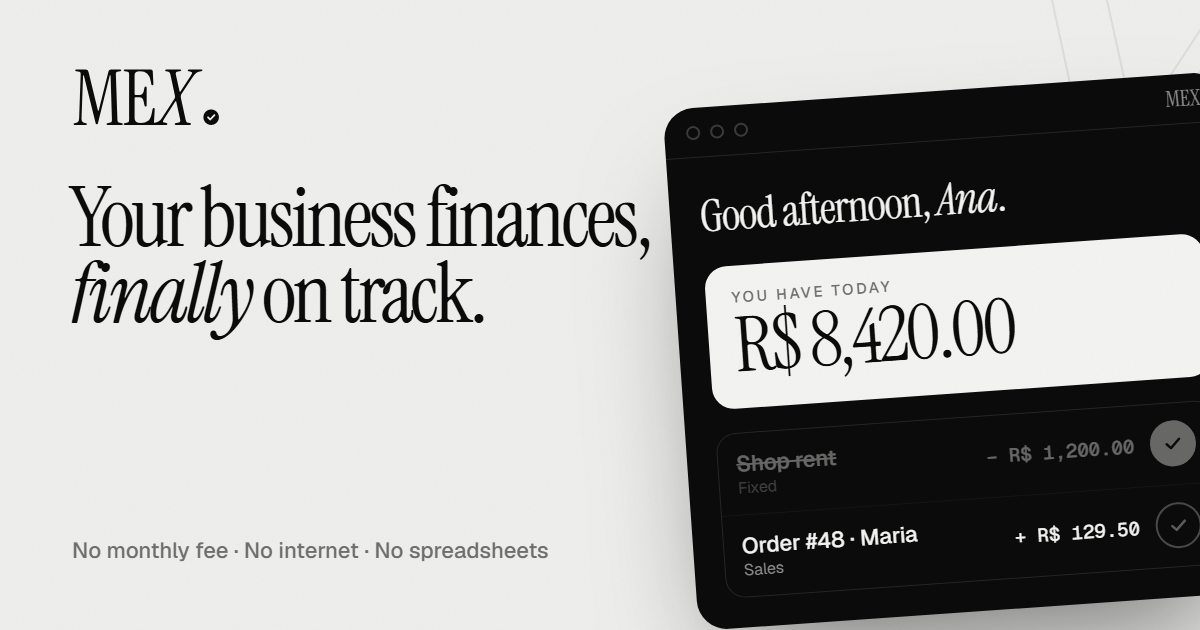
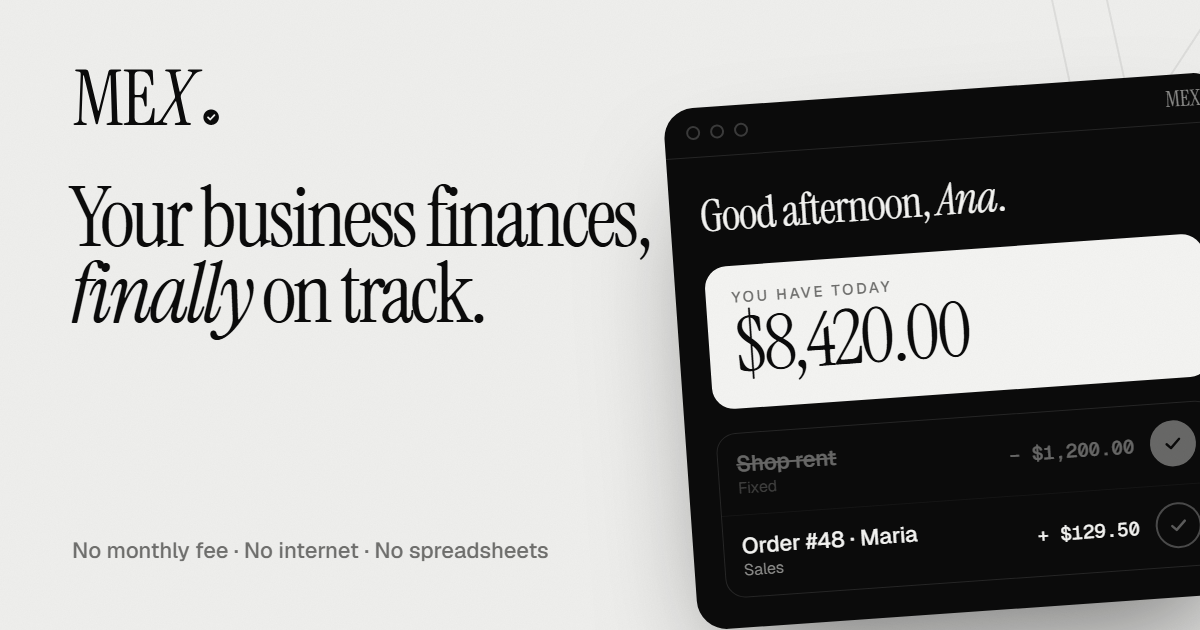
Show prices and amounts in US dollars
The English site now uses USD everywhere: price ($39, was $59),
demo, calculator, examples and the share image. The FAQ still says
that the app itself shows amounts in Brazilian reais.

Changed region(s): [[0.6167, 0.4825, 0.8633, 0.6032], [0.8633, 0.8143, 0.8942, 0.8746], [0.8325, 0.6937, 0.8633, 0.754]]

diff --git a/index.html b/index.html
@@ -64,7 +64,7 @@
         <a class="btn ghost lg" href="#demo">Try it right here ↓</a>
       </div>
       <ul class="hero-facts reveal">
-        <li><b>R$ 0</b><span>monthly fee</span></li>
+        <li><b>$0</b><span>monthly fee</span></li>
         <li><b>100%</b><span>offline</span></li>
         <li><b>84</b><span>achievements</span></li>
       </ul>
@@ -83,13 +83,13 @@
           </aside>
           <div class="w-main">
             <div class="w-greet">Good afternoon, <em>Ana</em>.</div>
-            <div class="w-bal"><small>You have today</small><b id="dBal">R$ 8,420.00</b></div>
+            <div class="w-bal"><small>You have today</small><b id="dBal">$8,420.00</b></div>
             <div class="w-head"><span>Due today</span><span id="dLeft">4 bills</span></div>
             <div class="w-list" id="dList">
-              <div class="w-row" data-v="-120000" data-t="pagar"><span class="ti out">↗</span><div><b>Shop rent</b><small>Fixed · Rent</small></div><em>− R$ 1,200.00</em><button aria-label="Pay rent"><svg viewBox="0 0 24 24"><path d="m5 12.5 4.5 4.5L19 7.5"/></svg></button></div>
-              <div class="w-row" data-v="12950" data-t="receber"><span class="ti in">↙</span><div><b>Order #48 · Maria</b><small>Cakes · Sales</small></div><em>+ R$ 129.50</em><button aria-label="Receive order"><svg viewBox="0 0 24 24"><path d="m5 12.5 4.5 4.5L19 7.5"/></svg></button></div>
-              <div class="w-row" data-v="-38000" data-t="pagar"><span class="ti out">↗</span><div><b>Silva Packaging</b><small>Suppliers</small></div><em>− R$ 380.00</em><button aria-label="Pay supplier"><svg viewBox="0 0 24 24"><path d="m5 12.5 4.5 4.5L19 7.5"/></svg></button></div>
-              <div class="w-row" data-v="45000" data-t="receber"><span class="ti in">↙</span><div><b>Decor · Lucas's party</b><small>Services</small></div><em>+ R$ 450.00</em><button aria-label="Receive service"><svg viewBox="0 0 24 24"><path d="m5 12.5 4.5 4.5L19 7.5"/></svg></button></div>
+              <div class="w-row" data-v="-120000" data-t="pagar"><span class="ti out">↗</span><div><b>Shop rent</b><small>Fixed · Rent</small></div><em>− $1,200.00</em><button aria-label="Pay rent"><svg viewBox="0 0 24 24"><path d="m5 12.5 4.5 4.5L19 7.5"/></svg></button></div>
+              <div class="w-row" data-v="12950" data-t="receber"><span class="ti in">↙</span><div><b>Order #48 · Maria</b><small>Cakes · Sales</small></div><em>+ $129.50</em><button aria-label="Receive order"><svg viewBox="0 0 24 24"><path d="m5 12.5 4.5 4.5L19 7.5"/></svg></button></div>
+              <div class="w-row" data-v="-38000" data-t="pagar"><span class="ti out">↗</span><div><b>Silva Packaging</b><small>Suppliers</small></div><em>− $380.00</em><button aria-label="Pay supplier"><svg viewBox="0 0 24 24"><path d="m5 12.5 4.5 4.5L19 7.5"/></svg></button></div>
+              <div class="w-row" data-v="45000" data-t="receber"><span class="ti in">↙</span><div><b>Decor · Lucas's party</b><small>Services</small></div><em>+ $450.00</em><button aria-label="Receive service"><svg viewBox="0 0 24 24"><path d="m5 12.5 4.5 4.5L19 7.5"/></svg></button></div>
             </div>
             <button class="w-reset" id="dReset" hidden>↺ again</button>
           </div>
@@ -113,7 +113,7 @@
     <div class="pain-grid">
       <div class="pain-card reveal"><span class="pn">01</span><p class="strike">“I think I already paid that bill…”</p><p>MEX shows what's due today and what's already late. Paid it? One tap and you're done.</p></div>
       <div class="pain-card reveal"><span class="pn">02</span><p class="strike">“Who owes me again?”</p><p>Everything you're owed, by whom and when — and the reminder is ready to send on WhatsApp.</p></div>
-      <div class="pain-card reveal"><span class="pn">03</span><p class="strike">“At the end of the month, did I make or lose money?”</p><p>Balance, monthly profit and where every real went, in words anyone understands.</p></div>
+      <div class="pain-card reveal"><span class="pn">03</span><p class="strike">“At the end of the month, did I make or lose money?”</p><p>Balance, monthly profit and where every dollar went, in words anyone understands.</p></div>
     </div>
   </div>
 </section>
@@ -124,17 +124,17 @@
     <div class="calc-copy reveal">
       <p class="eyebrow">Do the math</p>
       <h2 class="h2">How much does paying late<br><em>cost you</em> a year?</h2>
-      <p class="muted">In Brazil, a late bill usually comes with a 2% fine plus 1% interest per month. Sounds small. Move the sliders and see.</p>
+      <p class="muted">A late bill usually comes with a late fee plus interest — say 2% plus 1% a month. Sounds small. Move the sliders and see.</p>
       <div class="sl"><label>Bills paid late per month <b id="cN">5</b></label><input type="range" id="iN" min="1" max="20" value="5"></div>
-      <div class="sl"><label>Average amount per bill <b id="cV">R$ 800</b></label><input type="range" id="iV" min="50" max="5000" step="50" value="800"></div>
+      <div class="sl"><label>Average amount per bill <b id="cV">$800</b></label><input type="range" id="iV" min="50" max="5000" step="50" value="800"></div>
       <div class="sl"><label>Average days late <b id="cD">15 days</b></label><input type="range" id="iD" min="1" max="30" value="15"></div>
     </div>
     <div class="calc-out reveal">
       <small>You throw away, every year</small>
-      <div class="big" id="cOut">R$ 0</div>
+      <div class="big" id="cOut">$0</div>
       <p id="cMsg">—</p>
       <a class="btn inv lg" href="#price" data-buy>Stop losing money</a>
-      <span class="fine">Rough estimate: 2% fine + 1% monthly interest, prorated by day.</span>
+      <span class="fine">Rough estimate: 2% late fee + 1% monthly interest, prorated by day.</span>
     </div>
   </div>
 </section>
@@ -150,23 +150,23 @@
       <article class="b-card b-wide reveal">
         <div class="b-txt"><h3>Bills to pay <em>and to receive</em></h3><p>Add them in seconds. Installments? Repeats every month? MEX creates them all. On the day, it reminds you — and paying is one tap on the ✓.</p></div>
         <div class="b-vis rows">
-          <div class="r late"><span>Late</span><b>Electricity bill</b><em>R$ 214.30</em></div>
-          <div class="r"><span>Today</span><b>Rent</b><em>R$ 1,200.00</em></div>
-          <div class="r in"><span>Tomorrow</span><b>Order #49 · João</b><em>+ R$ 545.00</em></div>
-          <div class="r paid"><span>Paid ✓</span><b>Internet</b><em>R$ 99.90</em></div>
+          <div class="r late"><span>Late</span><b>Electricity bill</b><em>$214.30</em></div>
+          <div class="r"><span>Today</span><b>Rent</b><em>$1,200.00</em></div>
+          <div class="r in"><span>Tomorrow</span><b>Order #49 · João</b><em>+ $545.00</em></div>
+          <div class="r paid"><span>Paid ✓</span><b>Internet</b><em>$99.90</em></div>
         </div>
       </article>
       <article class="b-card reveal">
         <div class="b-txt"><h3>Receipts, <em>ready</em></h3><p>With the amount spelled out in words. Print it or save it as a PDF.</p></div>
-        <div class="b-vis receipt"><div class="rc-h"><i>Receipt</i><b>R$ 129.50</b></div><p>Received from <b>Maria Souza</b> the amount of <b>R$ 129.50</b> <em>(one hundred twenty-nine reais and fifty centavos)</em>…</p><div class="rc-sign"></div></div>
+        <div class="b-vis receipt"><div class="rc-h"><i>Receipt</i><b>$129.50</b></div><p>Received from <b>Maria Souza</b> the amount of <b>$129.50</b> <em>(one hundred twenty-nine dollars and fifty cents)</em>…</p><div class="rc-sign"></div></div>
       </article>
       <article class="b-card reveal">
         <div class="b-txt"><h3>Remind on <em>WhatsApp</em></h3><p>A polite message with the amount, the due date and your Pix key. Just hit send.</p></div>
-        <div class="b-vis chat"><div class="bubble">Hi, Maria! Just a reminder about the payment due on <b>11/22</b>: <b>R$ 129.50</b>. Pix key: <b>ana@pix.com</b> 😊</div><div class="typing"><i></i><i></i><i></i></div></div>
+        <div class="b-vis chat"><div class="bubble">Hi, Maria! Just a reminder about the payment due on <b>11/22</b>: <b>$129.50</b>. Pix key: <b>ana@pix.com</b> 😊</div><div class="typing"><i></i><i></i><i></i></div></div>
       </article>
       <article class="b-card reveal">
         <div class="b-txt"><h3>Products with <em>profit on screen</em></h3><p>Enter the price and what it costs you. MEX shows how much you make on every sale.</p></div>
-        <div class="b-vis prod"><div class="p-top"><span class="pbox"></span><b>Cake in a jar</b></div><div class="p-price">R$ 12<sup>.00</sup><small>/ unit</small></div><div class="p-m">✦ You make <b>R$ 7.50</b> (63%)</div></div>
+        <div class="b-vis prod"><div class="p-top"><span class="pbox"></span><b>Cake in a jar</b></div><div class="p-price">$12<sup>.00</sup><small>/ unit</small></div><div class="p-m">✦ You make <b>$7.50</b> (63%)</div></div>
       </article>
       <article class="b-card reveal">
         <div class="b-txt"><h3>Cash flow <em>and reports</em></h3><p>Monthly profit, where the money went and what's coming next.</p></div>
@@ -200,9 +200,9 @@
       </ul>
     </div>
     <div class="kb reveal" aria-hidden="true">
-      <div class="kc"><h5>New <span>2</span></h5><div class="oc" style="--d:0s"><small>#51 · deliver today</small><b>João Lima</b><span>3× Birthday cake</span><em>R$ 545.00</em></div><div class="oc ghost"><small>#52 · Sat, Nov 23</small><b>Central Bakery</b><span>200 Brigadeiros</span><em>R$ 180.00</em></div></div>
-      <div class="kc"><h5>In progress <span>1</span></h5><div class="oc mover"><small>#50 · tomorrow</small><b>Maria Souza</b><span>3× Cake in a jar · 100 Brigadeiros</span><em>R$ 129.50</em></div></div>
-      <div class="kc"><h5>Ready <span>1</span></h5><div class="oc"><small>#49 · deliver today</small><b>Lucas's party</b><span>Table decor</span><em>R$ 450.00</em><i class="go">✓ Deliver</i></div></div>
+      <div class="kc"><h5>New <span>2</span></h5><div class="oc" style="--d:0s"><small>#51 · deliver today</small><b>João Lima</b><span>3× Birthday cake</span><em>$545.00</em></div><div class="oc ghost"><small>#52 · Sat, Nov 23</small><b>Central Bakery</b><span>200 Brigadeiros</span><em>$180.00</em></div></div>
+      <div class="kc"><h5>In progress <span>1</span></h5><div class="oc mover"><small>#50 · tomorrow</small><b>Maria Souza</b><span>3× Cake in a jar · 100 Brigadeiros</span><em>$129.50</em></div></div>
+      <div class="kc"><h5>Ready <span>1</span></h5><div class="oc"><small>#49 · deliver today</small><b>Lucas's party</b><span>Table decor</span><em>$450.00</em><i class="go">✓ Deliver</i></div></div>
     </div>
   </div>
   <div class="wrap demand reveal">
@@ -332,7 +332,7 @@
       <div class="pc-l">
         <span class="tag">Full license</span>
         <h3>MEX <em>2</em></h3>
-        <div class="pc-price"><s>R$ 297</s><b>R$ <span>197</span></b><small>one-time payment · or in installments by card</small></div>
+        <div class="pc-price"><s>$59</s><b>$<span>39</span></b><small>one-time payment · US dollars</small></div>
         <a class="btn pri lg block mag" href="#price" data-buy><span>Buy MEX now</span><svg viewBox="0 0 24 24"><path d="M5 12h14M13 6l6 6-6 6"/></svg></a>
         <p class="fine">7-day guarantee: don't like it, get your money back.</p>
       </div>
@@ -348,7 +348,7 @@
         <li>No monthly fee, no internet</li>
       </ul>
     </div>
-    <p class="req reveal">Runs on <b>Windows 10 and 11</b> (64-bit). Prices in Brazilian reais (BRL).</p>
+    <p class="req reveal">Runs on <b>Windows 10 and 11</b> (64-bit). Prices in US dollars (USD).</p>
   </div>
 </section>
 
@@ -357,7 +357,7 @@
   <div class="wrap faq-w">
     <div class="sec-head reveal"><p class="eyebrow">FAQ</p><h2 class="h2">Real <em>questions</em>.</h2></div>
     <div class="faq">
-      <details class="reveal" open><summary>Is the app in English?</summary><p>Not yet. The MEX app itself is in Brazilian Portuguese and is built for Brazilian small businesses: amounts in reais (R$), Pix keys, MEI and WhatsApp reminders.</p></details>
+      <details class="reveal" open><summary>Is the app in English?</summary><p>Not yet. The MEX app itself is in Brazilian Portuguese and is built for Brazilian small businesses: inside the app, amounts are shown in Brazilian reais (R$), with Pix keys, MEI and WhatsApp reminders.</p></details>
       <details class="reveal"><summary>Does it need the internet?</summary><p>No. MEX runs 100% on your computer. The internet is only used if you choose to send a reminder on WhatsApp or keep your backup in a cloud folder.</p></details>
       <details class="reveal"><summary>Is there a monthly fee?</summary><p>No. You pay once and the app is yours.</p></details>
       <details class="reveal"><summary>Where is my data stored?</summary><p>In a file on your computer, in the Documents\MEX folder. Nobody but you has access to it.</p></details>
@@ -391,7 +391,7 @@
   </div>
 </footer>
 
-<div class="mbar" id="mbar"><div><small>MEX 2 · one-time payment</small><b>R$ 197</b></div><a class="btn pri" href="#price" data-buy>Buy</a></div>
+<div class="mbar" id="mbar"><div><small>MEX 2 · one-time payment</small><b>$39</b></div><a class="btn pri" href="#price" data-buy>Buy</a></div>
 
 <script src="js/site.js"></script>
 </body>

diff --git a/js/site.js b/js/site.js
@@ -10,14 +10,14 @@
 const MEX_SITE = {
   checkout: '',
   whatsapp: '',
-  price: 197,
+  price: 39,
 };
 
 (function () {
   const $ = (s, r = document) => r.querySelector(s);
   const $$ = (s, r = document) => [...r.querySelectorAll(s)];
   const reduce = matchMedia('(prefers-reduced-motion: reduce)').matches;
-  const brl = (c, cents = true) => (c < 0 ? '− ' : '') + 'R$ ' + (Math.abs(c) / 100).toLocaleString('en-US', { minimumFractionDigits: cents ? 2 : 0, maximumFractionDigits: cents ? 2 : 0 });
+  const brl = (c, cents = true) => (c < 0 ? '− ' : '') + '$' + (Math.abs(c) / 100).toLocaleString('en-US', { minimumFractionDigits: cents ? 2 : 0, maximumFractionDigits: cents ? 2 : 0 });
 
   /* ---------- links de compra e WhatsApp ---------- */
   if (MEX_SITE.checkout) $$('[data-buy]').forEach((a) => { a.href = MEX_SITE.checkout; a.target = '_blank'; a.rel = 'noopener'; });
@@ -165,7 +165,7 @@ const MEX_SITE = {
   function calc() {
     [iN, iV, iD].forEach(paint);
     const n = +iN.value, v = +iV.value, d = +iD.value;
-    $('#cN').textContent = n; $('#cV').textContent = 'R$ ' + v.toLocaleString('en-US'); $('#cD').textContent = d + (d === 1 ? ' day' : ' days');
+    $('#cN').textContent = n; $('#cV').textContent = '$' + v.toLocaleString('en-US'); $('#cD').textContent = d + (d === 1 ? ' day' : ' days');
     const perBill = v * (0.02 + 0.01 * (d / 30));
     const year = Math.round(perBill * n * 12 * 100);
     const from = outShown, t0 = performance.now();
